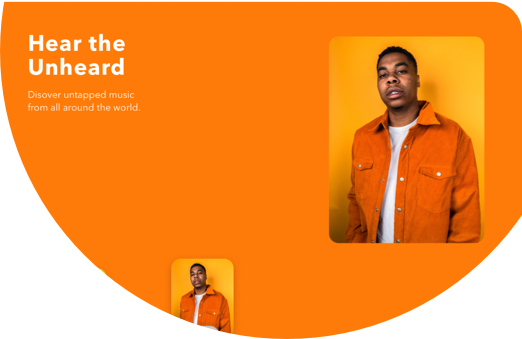
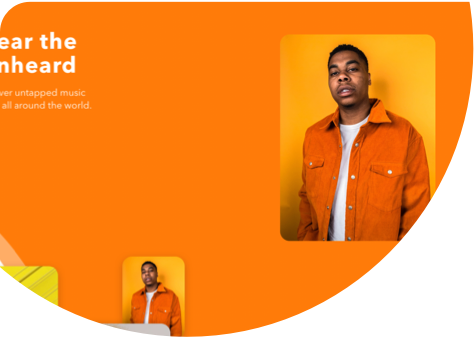
added the responsive part and links

diff --git a/src/shared/sidebar.tsx b/src/shared/sidebar.tsx
@@ -5,23 +5,33 @@ import logo from '../assets/logo.svg';
 
 export const Sidebar: React.FC = () => {
   return (
-    <div className="h-full fixed top-0 left-0 overflow-x-hidden w-1/4 z-10 p-5  bg-bgOrange">
+    <div className="lg:h-full w-full lg:fixed top-0 lg:top-0 lg:left-0 overflow-x-hidden lg:w-1/4 z-10 p-5 bg-bgOrange">
       <div>
         <img src={logo} alt="logo" />
       </div>
-      <div className="mt-20">
+      <div className="lg:mt-20 mt-8">
         <h1 className="font-title text-textBlue text-6xl">Hello</h1>
-        <p className="font-title text-white text-4xl">
+        <p className="font-title text-white lg:text-4xl text-3xl">
           I’m Marion - <br />A React Developer
         </p>
       </div>
-      <div className="fixed bottom-0">
-        <div className="inline-block pr-4 py-2 my-2 mr-2">
+      <div className="lg:fixed lg:bottom-0 lg:inline-block hidden">
+        <a
+          href="https://github.com/marionberton"
+          target="_blank"
+          rel="noreferrer"
+          className="inline-block pr-4 py-2 my-2 mr-2"
+        >
           <FontAwesomeIcon icon={['fab', 'github']} color="white" size="2x" />
-        </div>
-        <div className="inline-block px-4 py-2 m-2">
+        </a>
+        <a
+          href="https://www.linkedin.com/in/marion-berton-b906b5b2"
+          target="_blank"
+          rel="noreferrer"
+          className="inline-block px-4 py-2 m-2"
+        >
           <FontAwesomeIcon icon={['fab', 'linkedin']} color="white" size="2x" />
-        </div>
+        </a>
       </div>
     </div>
   );

diff --git a/src/shared/footer.tsx b/src/shared/footer.tsx
@@ -1,0 +1,27 @@
+import React from 'react';
+import { FontAwesomeIcon } from '@fortawesome/react-fontawesome';
+
+export const Footer: React.FC = () => {
+  return (
+    <footer className="bottom-0 block lg:hidden pt-5 bg-lightgrey">
+      <div className="py-4 px-8 ">
+        <a
+          href="https://github.com/marionberton"
+          target="_blank"
+          rel="noreferrer"
+          className="inline-block pr-4 py-2 my-2 mr-2"
+        >
+          <FontAwesomeIcon icon={['fab', 'github']} color="black" size="2x" />
+        </a>
+        <a
+          href="https://www.linkedin.com/in/marion-berton-b906b5b2"
+          target="_blank"
+          rel="noreferrer"
+          className="inline-block px-4 py-2 m-2"
+        >
+          <FontAwesomeIcon icon={['fab', 'linkedin']} color="black" size="2x" />
+        </a>
+      </div>
+    </footer>
+  );
+};

diff --git a/src/App.tsx b/src/App.tsx
@@ -4,6 +4,7 @@ import { fab } from '@fortawesome/free-brands-svg-icons';
 
 import { Sidebar } from './shared/sidebar';
 import { Main } from './pages/main';
+import { Footer } from './shared/footer';
 import './styles/tailwind.css';
 
 library.add(fab);
@@ -12,12 +13,10 @@ function App() {
   return (
     <div className="App">
       <Sidebar />
-      <main
-        style={{ marginLeft: '25%' }}
-        className="py-4 px-8 h-screen bg-lightgrey"
-      >
+      <main className="py-4 px-8 lg:h-screen bg-lightgrey main">
         <Main />
       </main>
+      <Footer />
     </div>
   );
 }

diff --git a/src/components/intro.tsx b/src/components/intro.tsx
@@ -7,7 +7,7 @@ export const Intro = () => {
         <h1 className="text-textBlue font-paragraph text-2xl font-bold mt-4">
           Welcome to my portfolio.
         </h1>
-        <p className="text-textBlue font-paragraph text-base mt-4 w-2/3 leading-relaxed">
+        <p className="text-textBlue font-paragraph text-base mt-4 md:w-2/3 leading-relaxed">
           I am a developer with the focus on building websites with
           <span className="text-pinkem font-extraboldfont-bold"> React</span>. I
           am currently based in Brighton, spending most of my days on learned

diff --git a/src/styles/tailwind.css b/src/styles/tailwind.css
@@ -9,9 +9,23 @@
   left: 30%;
   width: 65%;
 }
-/* body {
-  background-color: '#FAFBFF';
-} */
+.custom {
+  margin-bottom: 2rem;
+}
+
+@media only screen and (max-width: 1024px) and (min-width: 768px) {
+  .custom {
+    width: 30%;
+    margin-bottom: 0;
+  }
+
+}
+
+@media screen and (min-width: 1022px) {
+  .main {
+    margin-left: 25%;
+  }
+}
 
 @import url('https://fonts.googleapis.com/css2?family=Roboto&family=Yeseva+One&display=swap');
 

diff --git a/src/components/Skills/skills.tsx b/src/components/Skills/skills.tsx
@@ -7,7 +7,9 @@ export const Skills = () => {
   return (
     <section className="">
       <div className="">
-        <h1 className="text-titleMauve font-title text-3xl my-4">Skills</h1>
+        <h1 className="text-titleMauve font-title text-3xl md:my-4 mb-4">
+          Skills
+        </h1>
         <div className="flex flex-wrap">
           {SKILLS.map((item) => {
             const { image, alt } = item;

diff --git a/src/mock/logos.tsx b/src/mock/logos.tsx
@@ -16,9 +16,14 @@ export const SKILLS = [
     image: figma,
     alt: 'figma',
   },
+
   {
     image: github,
     alt: 'github',
+  },
+  {
+    image: tailwind,
+    alt: 'tailwind',
   },
   {
     image: javascript,
@@ -31,10 +36,6 @@ export const SKILLS = [
   {
     image: react,
     alt: 'react',
-  },
-  {
-    image: tailwind,
-    alt: 'tailwind',
   },
   {
     image: typescript,

diff --git a/src/components/Projects/work-item.tsx b/src/components/Projects/work-item.tsx
@@ -20,7 +20,7 @@ export const ProjectItem: React.FunctionComponent<WorkProps> = ({
   onKeyPress,
 }) => {
   return (
-    <Card className="w-1/4 cursor-pointer">
+    <Card className="xl:w-1/4 custom cursor-pointer">
       <div onClick={onClick} onKeyPress={onKeyPress} role="button" tabIndex={0}>
         <div>
           <img src={image} alt={alt} className="w-2/3 h-auto" />

diff --git a/src/components/Projects/works.tsx b/src/components/Projects/works.tsx
@@ -38,7 +38,7 @@ export const Projects = () => {
             />
           ) : null}
         </Modal>
-        <div className="flex flex-row justify-between">
+        <div className="flex md:flex-row flex-col justify-between">
           {PROJECTS.map((item) => {
             const { image, title, description, alt } = item;
             return (
